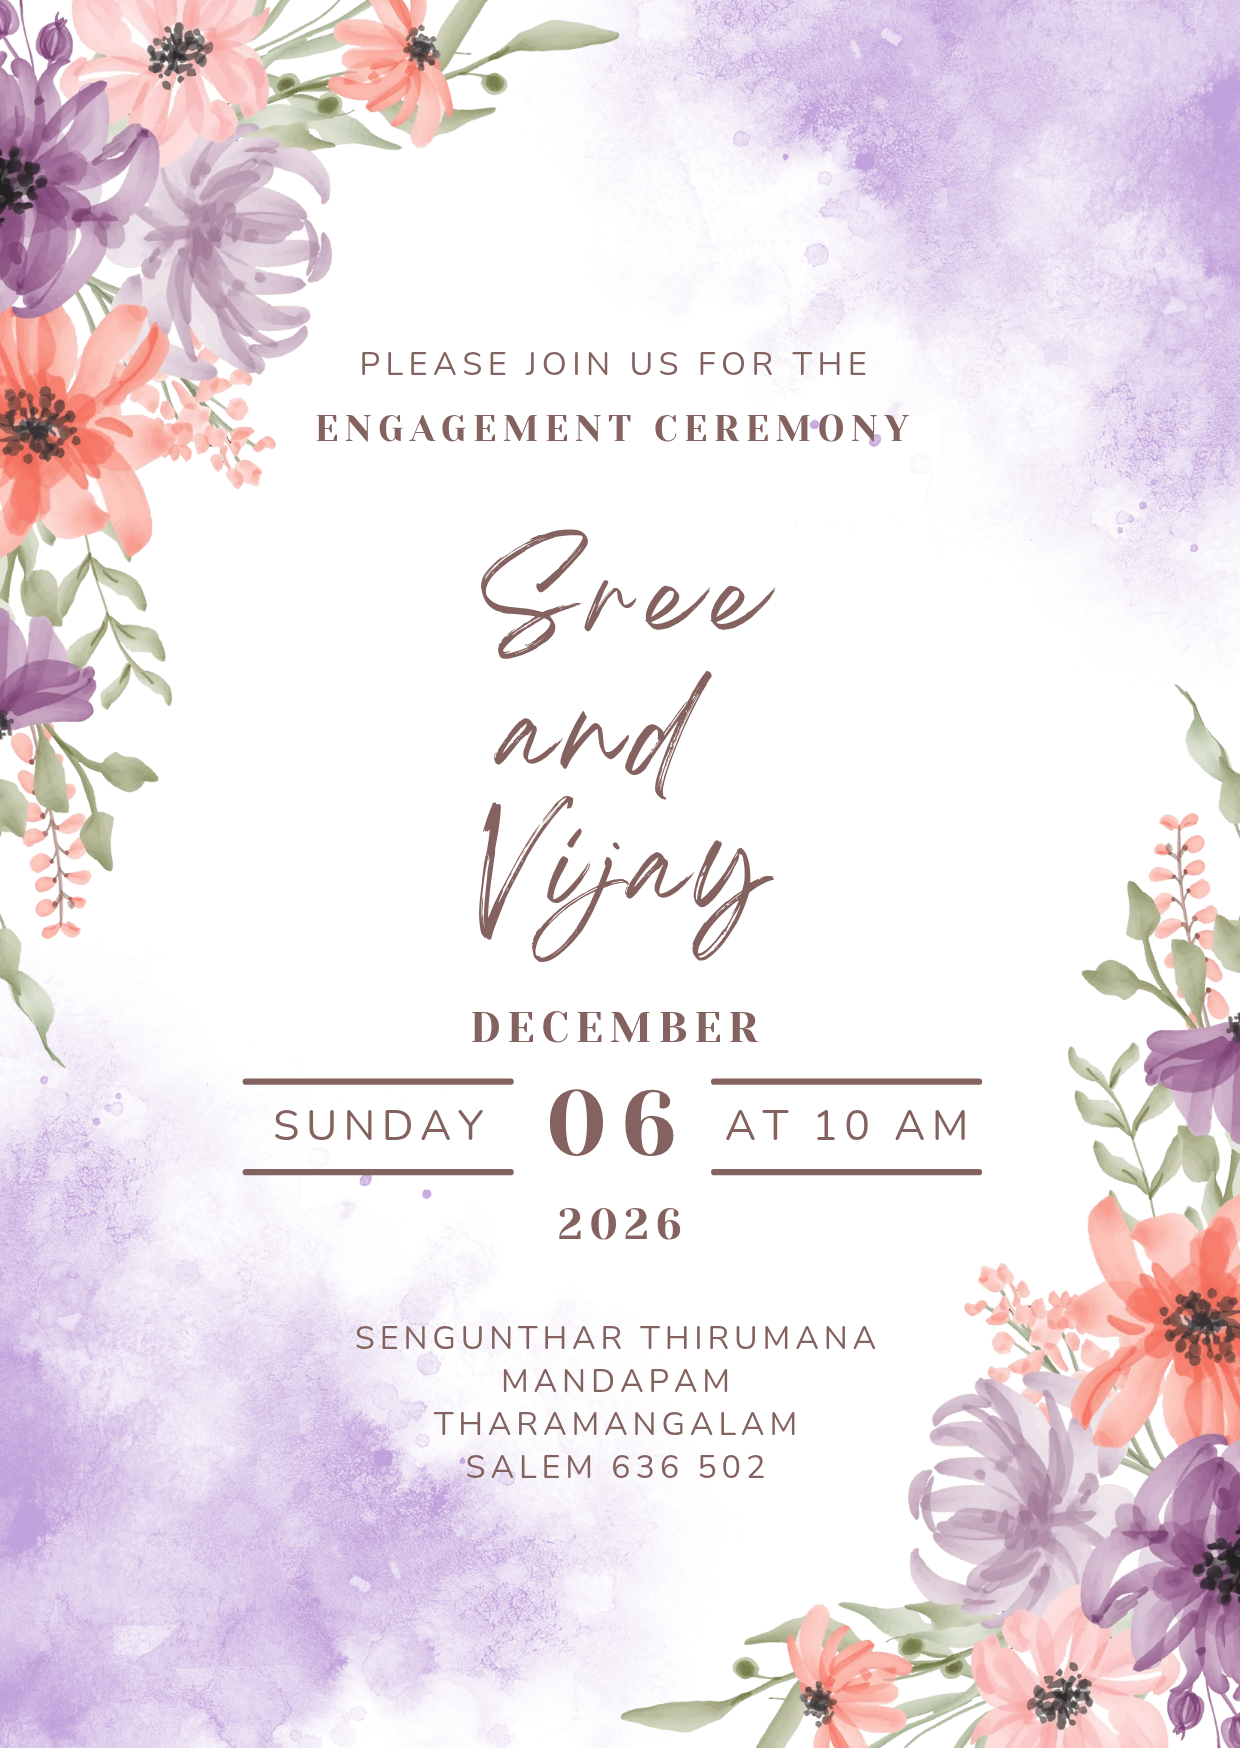
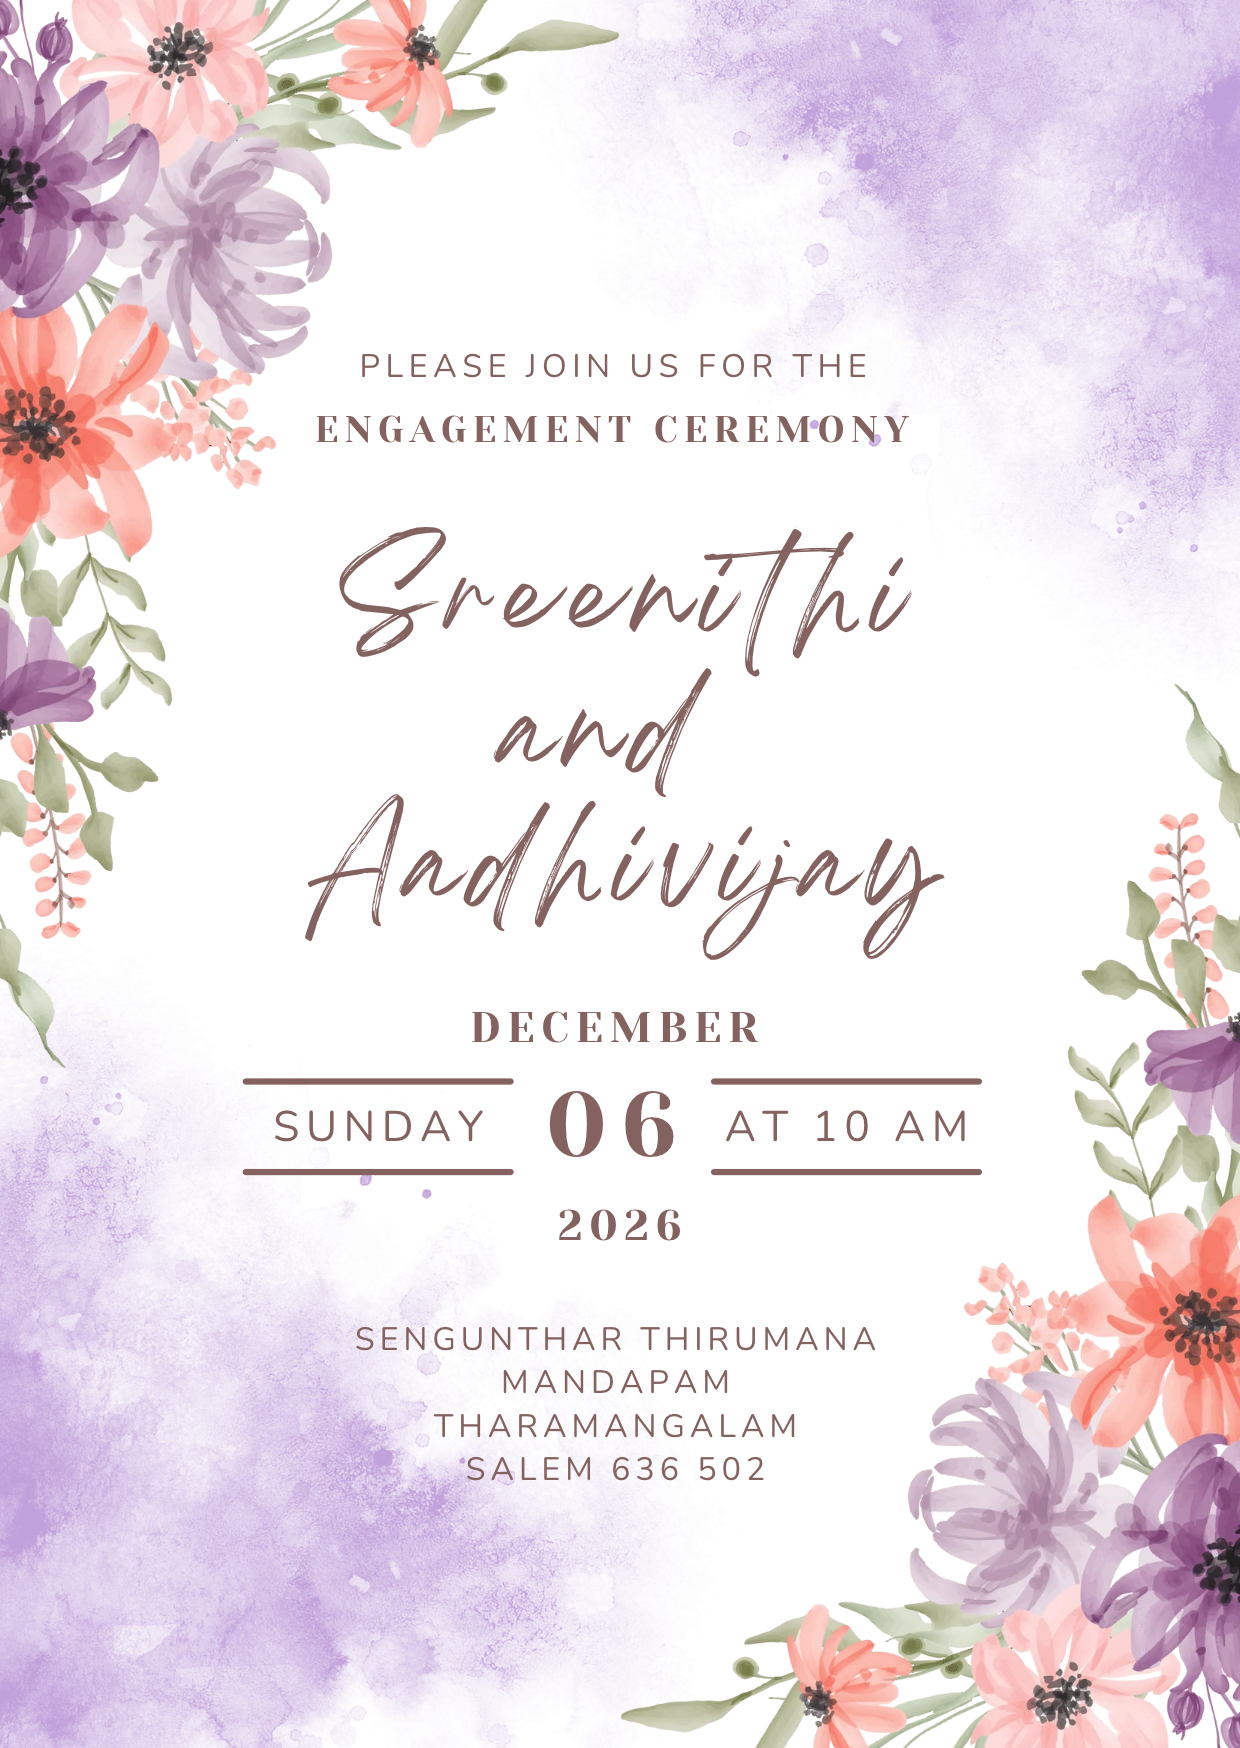
update name

diff --git a/index.html b/index.html
@@ -3,10 +3,10 @@
 <head>
   <meta charset="UTF-8">
   <meta name="viewport" content="width=device-width, initial-scale=1.0">
-  <title>Sree & Vijay’s Engagement</title>
+  <title>Sreenithi & Aadhivijay’s Engagement</title>
   
   <!-- Open Graph tags for nice WhatsApp link previews -->
-  <meta property="og:title" content="Sree & Vijay’s Engagement">
+  <meta property="og:title" content="Sreenithi & Aadhivijay’s Engagement">
   <meta property="og:description" content="Sunday, December 6, 2026 | Sengunthar Thirumana Mandapam, Tharamangalam, Salem">
   <meta property="og:image" content="invite.png">
   <meta property="og:type" content="website">
@@ -144,7 +144,7 @@
     <div class="card-wrapper">
       <img 
         src="invite.png" 
-        alt="Sree & Vijay’s Engagement Invitation" 
+        alt="Sreenithi & Aadhivijay’s Engagement Invitation" 
         class="invitation-img"
       >
     </div>
@@ -169,7 +169,7 @@
       <!-- Option 2: Save Calendar Invite (Google Calendar + .ics file with 1-day reminder) -->
       <div class="calendar-group">
         <a 
-          href="https://calendar.google.com/calendar/render?action=TEMPLATE&text=Sree+%26+Vijay%E2%80%99s+Engagement&dates=20261206T043000Z/20261206T063000Z&details=Please+join+us+for+the+Engagement+Ceremony+of+Sree+and+Vijay.%0A%0AVenue:+Sengunthar+Thirumana+Mandapam,+Tharamangalam,+Salem+636502%0ALocation:+https://maps.app.goo.gl/1dQ3vXfJRUGxReED8&location=Sengunthar+Thirumana+Mandapam,+Tharamangalam,+Salem+636502" 
+          href="https://calendar.google.com/calendar/render?action=TEMPLATE&text=Sreenithi+%26+Aadhivijay%E2%80%99s+Engagement&dates=20261206T043000Z/20261206T063000Z&details=Please+join+us+for+the+Engagement+Ceremony+of+Sreenithi+and+Aadhivijay.%0A%0AVenue:+Sengunthar+Thirumana+Mandapam,+Tharamangalam,+Salem+636502%0ALocation:+https://maps.app.goo.gl/1dQ3vXfJRUGxReED8&location=Sengunthar+Thirumana+Mandapam,+Tharamangalam,+Salem+636502" 
           target="_blank" 
           rel="noopener noreferrer" 
           class="btn btn-secondary"
@@ -191,7 +191,7 @@
       <!-- Option 1: Download Invitation Image -->
       <a 
         href="invite.png" 
-        download="Sree-and-Vijay-Engagement-Invitation.png" 
+        download="Sreenithi-and-Aadhivijay-Engagement-Invitation.png" 
         class="btn btn-secondary"
       >
         <svg fill="none" stroke="currentColor" stroke-width="2" viewBox="0 0 24 24">
@@ -209,22 +209,22 @@
       const icsContent = [
         "BEGIN:VCALENDAR",
         "VERSION:2.0",
-        "PRODID:-//Sree and Vijay Engagement//EN",
+        "PRODID:-//Sreenithi and Aadhivijay Engagement//EN",
         "CALSCALE:GREGORIAN",
         "METHOD:PUBLISH",
         "BEGIN:VEVENT",
-        "UID:sree-vijay-engagement-20261206@github.io",
-        "SUMMARY:Sree & Vijay’s Engagement",
+        "UID:sreenithi-aadhivijay-engagement-20261206@github.io",
+        "SUMMARY:Sreenithi & Aadhivijay’s Engagement",
         "DTSTAMP:20261114T000000Z",
         "DTSTART:20261206T043000Z",
         "DTEND:20261206T063000Z",
-        "DESCRIPTION:Please join us for the Engagement Ceremony of Sree and Vijay.\\n\\nGoogle Maps: https://maps.app.goo.gl/1dQ3vXfJRUGxReED8",
+        "DESCRIPTION:Please join us for the Engagement Ceremony of Sreenithi and Aadhivijay.\\n\\nGoogle Maps: https://maps.app.goo.gl/1dQ3vXfJRUGxReED8",
         "LOCATION:Sengunthar Thirumana Mandapam\\, Tharamangalam\\, Salem 636 502",
         "STATUS:CONFIRMED",
         "BEGIN:VALARM",
         "TRIGGER:-P1D",
         "ACTION:DISPLAY",
-        "DESCRIPTION:Reminder: Sree & Vijay’s Engagement is tomorrow at 6:00 AM",
+        "DESCRIPTION:Reminder: Sreenithi & Aadhivijay’s Engagement is tomorrow at 6:00 AM",
         "END:VALARM",
         "END:VEVENT",
         "END:VCALENDAR"
@@ -233,7 +233,7 @@
       const blob = new Blob([icsContent], { type: "text/calendar;charset=utf-8" });
       const link = document.createElement("a");
       link.href = URL.createObjectURL(blob);
-      link.setAttribute("download", "Sree-Vijay-Engagement.ics");
+      link.setAttribute("download", "Sreenithi-Aadhivijay-Engagement.ics");
       document.body.appendChild(link);
       link.click();
       document.body.removeChild(link);
